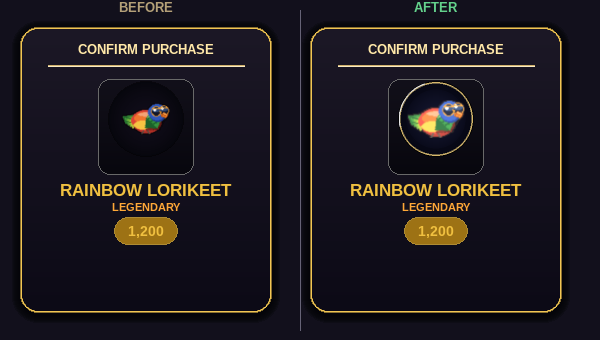
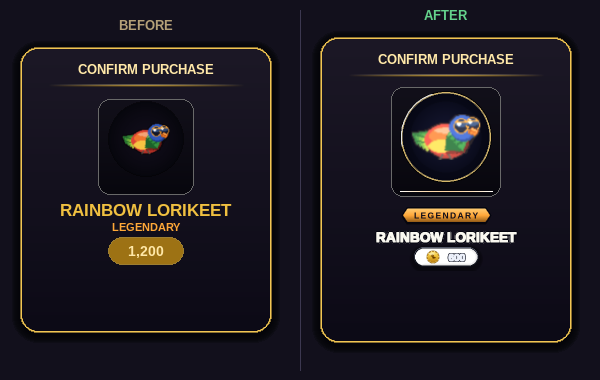
feat(store): upgrade confirm-screen info section to store-card quality
Replaces the three plain renders (tier text, item name, price chip) with
a single 2× SS canvas that calls the same store_cards functions as the
grid cards: _ribbon for the notched tier banner, _name_on for the
shadow+keyline name, and state_chip for the gold-ramp price chip.

Also expands the stage from 96×96 to 110×110 and the disc from r=38 to
r=46 so the item glyph is prominently sized. Panel height grows from 286
to 306 to accommodate the taller layout with proper spacing.

Claude-Session: https://claude.ai/code/session_011726ot8uBSmurQVaEkGY6K

diff --git a/game/store.py b/game/store.py
@@ -830,7 +830,7 @@ class StoreScene:
 
         secret = store_catalog.is_secret(sid) and not store_data.is_owned(sid)
         tier = store_catalog.rarity(sid)
-        pw, ph = 252, 286
+        pw, ph = 252, 306
         panel = pygame.Rect((W - pw) // 2, (H - ph) // 2, pw, ph)
         self._confirm_panel = panel
         _drop_shadow(surf, panel, 18, blur=8, alpha=170)
@@ -847,16 +847,15 @@ class StoreScene:
         _gold_rule(surf, panel.x + 28, panel.right - 28, panel.y + 38)
 
         # Connected disc + shelf stage so they read as one lit vitrine element.
-        stage = pygame.Rect(cx - 48, panel.y + 52, 96, 96)
+        stage = pygame.Rect(cx - 55, panel.y + 50, 110, 110)
         surf.blit(_vgrad_panel(stage.w, stage.h, 12, (18, 16, 26), (8, 7, 14)),
                   stage.topleft)
         pygame.draw.rect(surf, (0, 0, 0, 150), stage, width=1, border_radius=12)
-        disc_cy = stage.y + 40
-        # Draw the disc at 2× SS so cabochon/blit_thumb quality matches store cards.
-        # r_ss=76 (38 logical × 2), pad_ss=8 (m(4) at SS=2), canvas=168×168.
-        _R_SS, _PAD_SS = 76, 8
-        _DS = _R_SS * 2 + _PAD_SS * 2   # 168
-        _C_SS = _R_SS + _PAD_SS          # 84  (center on SS canvas)
+        disc_cy = stage.y + 50
+        # Disc at 2× SS — r=46 logical (92 SS-px), matches store-card quality.
+        _R_SS, _PAD_SS = 92, 8
+        _DS = _R_SS * 2 + _PAD_SS * 2   # 200
+        _C_SS = _R_SS + _PAD_SS          # 100  (center on SS canvas)
         pal = (store_cards.MYSTERY if secret
                else store_cards.RARITY.get(tier, store_cards.RARITY["common"]))
         store_cards.soft_glow(surf, cx, disc_cy, _R_SS // 2 + 3,
@@ -867,7 +866,7 @@ class StoreScene:
                              ring=pal["gem"], ring_a=50)
         if secret:
             _draw_qmark(ss_disc, _C_SS, _C_SS, int(_R_SS * 1.17),
-                        UI_CREAM, NEAR_BLACK, thick=4)
+                        UI_CREAM, NEAR_BLACK, thick=5)
             name = "???"
         else:
             store_cards.blit_thumb(ss_disc, sid, _C_SS, _C_SS, int(_R_SS * 1.5))
@@ -878,21 +877,22 @@ class StoreScene:
         _shelf_bar(surf, stage, tier, mystery=secret)
         _gem(surf, stage.right - 4, stage.y + 4, 7, tier, self.t, mystery=secret)
 
-        nimg = _font(17, True).render(name, True, _GOLD_BRIGHT)
-        surf.blit(nimg, nimg.get_rect(center=(cx, panel.y + 162)))
-        rword_txt = "MYSTERY" if secret else tier.upper()
-        rword_col = _MYSTERY["gem"] if secret else _RARITY[tier]["gem"]
-        rword = _font(11, True).render(rword_txt, True, rword_col)
-        surf.blit(rword, rword.get_rect(center=(cx, panel.y + 180)))
+        # Ribbon + name + price chip on one 2× SS canvas — same pipeline as the
+        # store cards, smoothscaled to 1× so typography is crisp and consistent.
+        _ss = store_cards.m
+        ss_info = pygame.Surface((pw * 2, 140), pygame.SRCALPHA)
+        tier_word = "MYSTERY" if secret else tier.upper()
+        store_cards._ribbon(ss_info, tier_word, pw, 28, pw * 2 - _ss(34), pal)
+        store_cards._name_on(ss_info, name, pw, 72, pw * 2 - _ss(26))
+        store_cards.state_chip(ss_info, sid, pw, 112, False, secret, _ss(20))
+        info_out = pygame.transform.smoothscale(ss_info, (pw, 70))
+        surf.blit(info_out, (panel.x, panel.y + 164))
 
         price = store_catalog.cost(sid)
         affordable = store_data.balance() >= price
-        if affordable:
-            _chip(surf, cx, panel.y + 204, f"{price:,}", "price", coin=True, h=28)
-        else:
-            _chip(surf, cx, panel.y + 200, f"{price:,}", "locked", lock=True, h=28)
+        if not affordable:
             warn = _font(10, True).render("NOT ENOUGH COINS", True, (150, 166, 190))
-            surf.blit(warn, warn.get_rect(center=(cx, panel.y + 222)))
+            surf.blit(warn, warn.get_rect(center=(cx, panel.y + 244)))
 
         bw, bh, gutter = 100, 38, 16
         by = panel.bottom - 30
